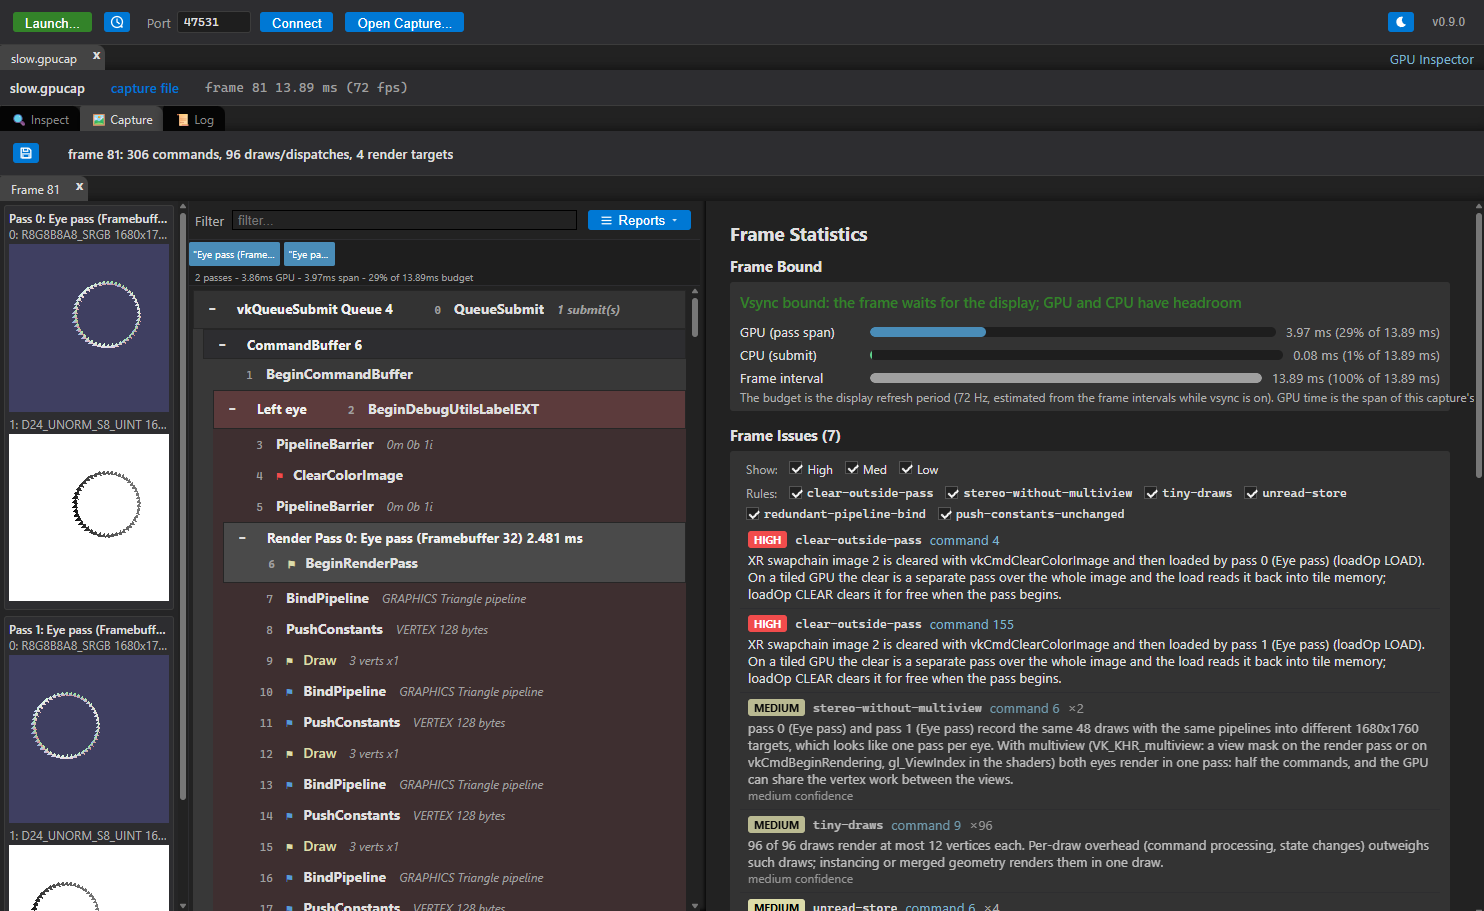
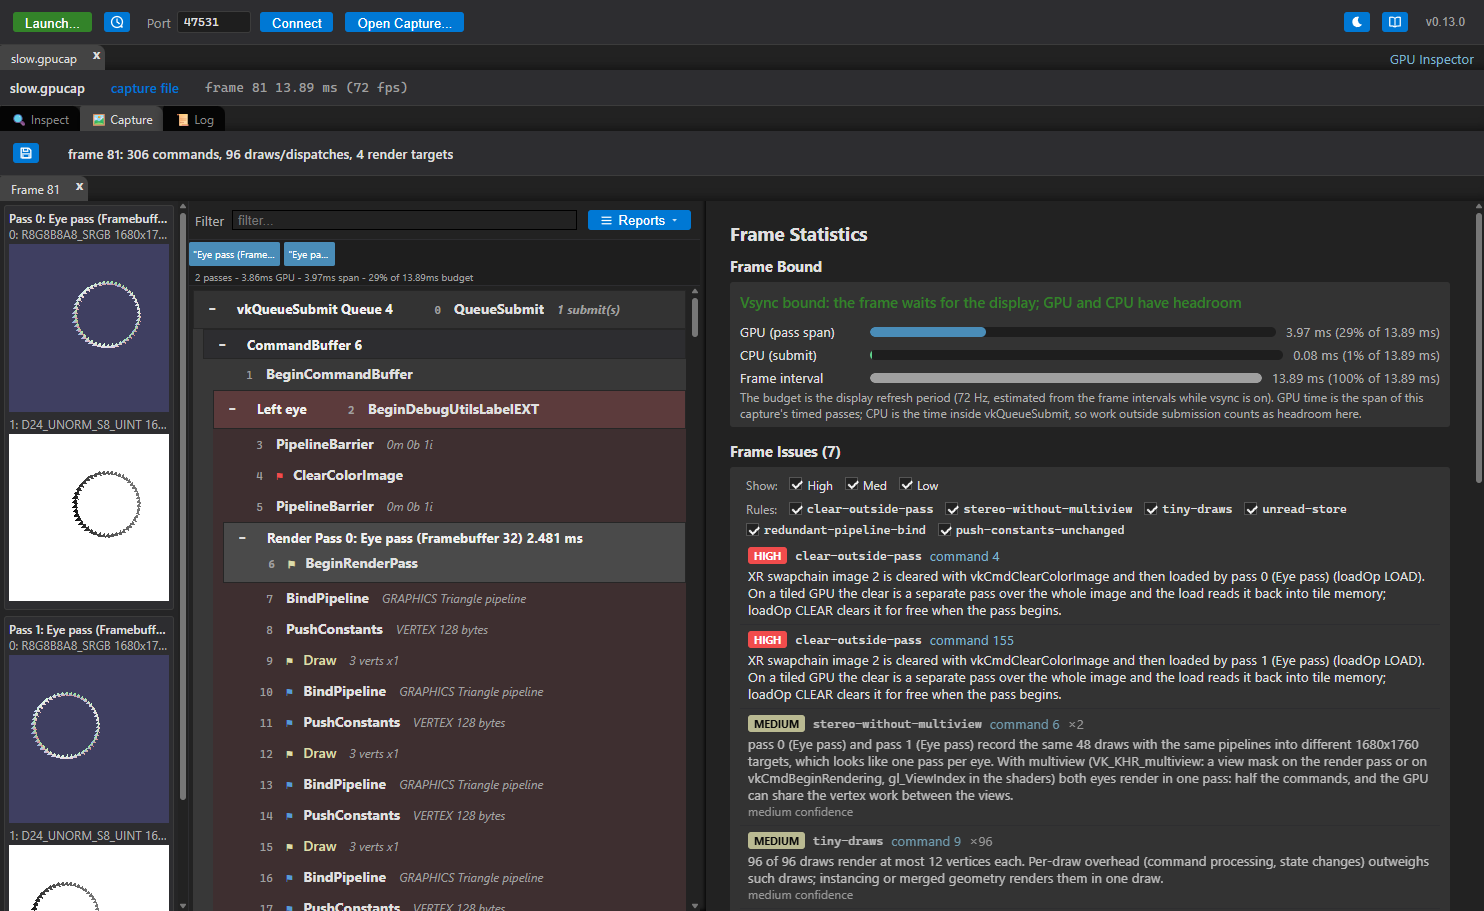
Document ray tracing and the new stats cards

diff --git a/src/app/src/renderer/capture_panel.ts b/src/app/src/renderer/capture_panel.ts
@@ -1462,7 +1462,20 @@ export class CaptureView implements CaptureHost {
   showView(name: string): void {
     if (name === "graph" || name === "render-graph") this._showRenderGraph();
     else if (name === "bottlenecks") this._showBottlenecks();
-    else if (name === "stats") this._showStats();
+    else if (name === "stats" || name.startsWith("stats:")) {
+      // Testing aid (--debug-view=stats[:<card>]): Frame Stats, scrolled to the card whose heading
+      // contains the text, since a screenshot otherwise only ever shows the top of the report.
+      this._showStats();
+      const heading = name.split(":")[1];
+      if (heading) {
+        const needle = heading.toLowerCase();
+        for (const h of this._infoPanel.element.querySelectorAll(".frame-stats-heading")) {
+          if (!(h.textContent ?? "").toLowerCase().includes(needle)) continue;
+          h.scrollIntoView({ block: "start" });
+          break;
+        }
+      }
+    }
     else if (name === "flame" || name === "flamegraph") void this._showFlameGraph();
     else if (name === "overdraw") void this.openOverdraw();
     else if (name.startsWith("mesh")) {

diff --git a/src/app/src/renderer/css/app.css b/src/app/src/renderer/css/app.css
@@ -391,7 +391,9 @@ button.btn-icon { padding: 3px 6px; line-height: 0; }
 .frame-stats-title { font-size: 14pt; font-weight: bold; margin-bottom: 10px; }
 .frame-stats-section { margin-bottom: 14px; }
 .frame-stats-heading { font-size: 11pt; font-weight: bold; margin-bottom: 6px; }
-.frame-stats-list { background: var(--bg-elevated); border-radius: var(--radius-sm); padding: 6px 10px; }
+/* The split the details pane sits in sets white-space: nowrap for its command rows, and it
+   inherits: without this every verdict and note here is one long line clipped at the pane's edge. */
+.frame-stats-list { background: var(--bg-elevated); border-radius: var(--radius-sm); padding: 6px 10px; white-space: normal; }
 .frame-stats-row { display: flex; justify-content: space-between; align-items: center; padding: 3px 0; font-size: 10pt; line-height: 1.4; }
 .frame-stats-label { color: var(--fg-primary); }
 .frame-stats-value { color: var(--fg-muted); font-variant-numeric: tabular-nums; }

diff --git a/src/app/src/renderer/capture_command_info.ts b/src/app/src/renderer/capture_command_info.ts
@@ -664,6 +664,9 @@ export class CommandInfoView {
         } else if (d.bufferView !== undefined) {
           const bv = db.getObject(refId(d.bufferView));
           resourceText = bv ? bv.name : "(destroyed buffer view)";
+        } else if (d.accelerationStructure !== undefined) {
+          const as = db.getObject(refId(d.accelerationStructure));
+          resourceText = as ? as.name : "(destroyed acceleration structure)";
         }
       }
       const isBuffer = !!d && d.buffer !== undefined;

diff --git a/src/app/src/shared/protocol.ts b/src/app/src/shared/protocol.ts
@@ -147,6 +147,8 @@ export interface CaptureDescriptor {
   sampler?: HandleRef | null;
   immutable?: boolean;
   bufferView?: HandleRef | null;
+  /** A ray tracing acceleration structure binding: the structure the rays are traced against. */
+  accelerationStructure?: HandleRef | null;
   /**
    * D3D12: a texture SRV/UAV names its resource and carries the view description (there is no view
    * object); `data` is the read-back's capture id as for `imageView`. A buffer view uses `buffer` /

diff --git a/src/app/src/renderer/inspect_panel.ts b/src/app/src/renderer/inspect_panel.ts
@@ -1178,6 +1178,7 @@ export class InspectPanel {
           if (d.immutable) new Span(li, { text: " (immutable)", class: "text-muted" });
         }
         if (d.bufferView !== undefined) link(d.bufferView, "(destroyed buffer view)");
+        if (d.accelerationStructure !== undefined) link(d.accelerationStructure, "(destroyed acceleration structure)");
         if (b.stages) new Span(li, { text: `  ${fmtFlags(b.stages)}`, class: "text-muted font-sm" });
       });
     }

diff --git a/tools/doc_screenshots.py b/tools/doc_screenshots.py
@@ -75,6 +75,16 @@ SHOTS = [
     Shot("bottlenecks", ["--launch={triangle}", "--debug-capture", "--debug-view=bottlenecks"],
          delay_ms=15000, launch=True),
     Shot("render-graph", ["--debug-open={capture}", "--debug-view=graph"], capture="unity.gpucap"),
+    # The Timeline card. Wants a real frame: the test application's GPU work is a tenth of a
+    # millisecond, which is sub-pixel against an axis wide enough to hold the CPU calls. It also
+    # needs a capture taken by a layer new enough to send the CPU timeline, which the older saved
+    # captures are not — unity-live.gpucap is a Unity player captured with the current one.
+    Shot("timeline", ["--debug-open={capture}", "--debug-view=stats:Timeline"], delay_ms=12000,
+         capture="unity-live.gpucap"),
+    # Frame Bound reporting the capture's own cost rather than a bottleneck, which wants a frame
+    # short enough that capturing it dominates — a player running far above its display's rate.
+    Shot("frame-bound-capture-cost", ["--debug-open={capture}", "--debug-view=stats:Frame Bound"],
+         delay_ms=12000, capture="unity-live.gpucap"),
     # Overdraw and pixel history replay the capture on this machine's GPU: slower. Both open on
     # the first colour target, and pixel history follows its centre pixel, so they want a frame
     # whose first target is small enough to see whole and has something at the middle of it —
@@ -103,6 +113,16 @@ SHOTS = [
     # A shader with its embedded source, in a captured draw.
     Shot("shader-source", ["--debug-open={capture}", "--debug-command=4", "--debug-expand=Fragment Shader"],
          delay_ms=12000, capture="xrstack.gpucap"),
+    # The acceleration structure viewer: a top level's instances and the scene they make. Wants a
+    # capture whose top level was built while watching, which rt.gpucap is (test/triangle
+    # --ray-tracing rebuilds both levels every frame).
+    # Named rather than taking the first structure: Instances is a top level's view, and the bottom
+    # level sorts first.
+    Shot("acceleration-structures", ["--debug-open={capture}", "--debug-select=VkAccelerationStructureKHR:TLAS"],
+         delay_ms=12000, capture="rt.gpucap"),
+    # The shader binding table of a trace (rt.gpucap, command 13 is the vkCmdTraceRaysKHR).
+    Shot("binding-table", ["--debug-open={capture}", "--debug-command=13", "--debug-expand=Shader Binding Table"],
+         delay_ms=12000, capture="rt.gpucap"),
     # The launch dialog, in its desktop and Android forms.
     Shot("launch-dialog", ["--debug-launch-dialog"], delay_ms=5000, crop="dialog"),
     Shot("launch-android", ["--debug-launch-dialog=android"], delay_ms=7000, crop="dialog"),

diff --git a/docs/INSPECT.md b/docs/INSPECT.md
@@ -48,6 +48,32 @@ now — **Refresh** reads it again from the application. Bindings that were neve
 Buffers are decoded with the types the shader declares, so a uniform block reads as its fields
 rather than as bytes.
 
+## Acceleration structures
+
+A ray tracing acceleration structure is opaque: the driver owns its layout and nothing reads one
+back. So the view of one is what it was *built from*, which the layer records as the build goes by.
+
+**Acceleration Structure** is that build — its type and mode, and each geometry with its primitive
+count, and for triangles the vertex format, stride and index type. A build names the memory it reads
+by device address rather than by handle, so the layer resolves those addresses back to the buffers
+holding them and the section names the buffer and the offset into it. A structure that was filled
+before the inspector attached says **Not built while the inspector was watching**, which is the
+usual state of a bottom level: most applications build theirs once, at load.
+
+**Instances** on a top level lists what it was built out of: for each instance the bottom level it
+names, where its transform puts it, its visibility mask, and its custom index, hit group offset and
+flags where they are not the default. An instance refers to its bottom level by device address, not
+by handle, which is why the layer records the address of every structure the application asks for
+one of — that map is what turns the reference back into an object you can click.
+
+![A top level acceleration structure in Inspect: what it was built from, and its instances drawn as a scene](images/acceleration-structures.png)
+
+The instances are also drawn, in the same preview the [mesh view](REPORTS.md#mesh-view) uses. An
+instance whose bottom level's geometry is in the capture is drawn with that geometry, placed by its
+transform; one whose is not is drawn as a box where it sits. A scene of boxes is the common case and
+is not a fault — it means those bottom levels were built before anything was capturing. Capturing a
+frame of an application that rebuilds its geometry each frame, or that streams it in, fills them in.
+
 ## Shaders
 
 A shader module or pipeline has a **Shader Code** section per stage with these views:

diff --git a/docs/CAPTURE.md b/docs/CAPTURE.md
@@ -54,6 +54,17 @@ Selecting a command fills the right side with everything that was true at that p
 - **Vertex and index buffers** — decoded into the attributes the pipeline declares, with their
   values.
 - **Push constants**.
+- **Shader Groups** (a ray tracing pipeline) — the groups the pipeline was made with, each naming
+  the shaders in it.
+- **Shader Binding Table** (a trace) — which shader group each record of the table runs. A trace
+  does not name the shaders it runs: it names four regions of memory whose records each begin with
+  an opaque handle the driver gave out for a group. The layer keeps those handles on the pipeline
+  and reads the table back from the addresses the trace points at, so each record is matched to its
+  group, and the bytes after the handle are reported as the application's own shader record data.
+  A record whose handle this pipeline never gave out is called out: a table filled from another
+  pipeline, or from handles fetched before the pipeline was rebuilt, sends rays to the wrong shader
+  or to none, and nothing else in a capture would show it. The structures a trace runs against are
+  in the [Inspect tab](INSPECT.md#acceleration-structures).
 - **Render targets** — the pass's attachments as they were at the end of the pass. Clicking one
   opens the image viewer, with zoom, mip and layer selection, and the value of the texel under the
   pointer. **Open in Tab** shows the target in the
@@ -64,6 +75,8 @@ Selecting a command fills the right side with everything that was true at that p
 - Commands recorded into a secondary command buffer say so, and link to it.
 
 ![A draw's fragment shader in a capture, showing the source the compiler embedded in the SPIR-V, with its cost and analysis](images/shader-source.png)
+
+![A trace in a capture: the pipeline's shader groups, and each shader binding table record matched to the group it runs](images/binding-table.png)
 
 Anything the frame's analysis flagged about a command is shown with it, linked to the full list in
 [Frame Stats](REPORTS.md#frame-stats).

diff --git a/docs/PROFILING.md b/docs/PROFILING.md
@@ -56,6 +56,19 @@ time its passes took.
 - Both well under the frame interval: something else sets the pace. Usually vsync, which is fine,
   or the application waiting on something that is not the GPU.
 
+There is a fourth answer: **the capture's own cost**. The frame interval is the one the application
+reaches *without* a capture, but the GPU time is the span of the *captured* passes — and capturing
+puts a timestamp, statistics and occlusion query around every pass and reads every render target
+back. When the passes span longer than the frame itself, the two numbers cannot both describe the
+same frame, and the card says so instead of naming a limiter. A Unity player running at 1475 fps
+whose captured passes span 9.2 ms is not GPU bound; it is a frame that got 13 times more expensive
+because it was being watched. Lighter frames distort proportionally more, so this is the usual
+verdict on a small or very fast application and a rare one on a real workload at its real frame
+rate. The per-pass figures are still worth reading against each other — it is the comparison with
+the frame budget that the capture has broken.
+
+![Frame Bound reporting the capture's own cost: a Unity frame of 0.74 ms whose captured passes span 4.81 ms, 648% of it](images/frame-bound-capture-cost.png)
+
 The meter in the session bar shows the same comparison live, without capturing.
 
 Those three numbers are aggregates, and two very different frames can produce the same ones: a frame
@@ -91,6 +104,8 @@ The **Timeline** card draws them instead: one lane per thread with the calls the
 GPU lane with the passes, on one axis. Both lanes sharing an axis needs the device clock related to
 the host clock, which the layer samples where the device has `VK_KHR_calibrated_timestamps`; without
 it the CPU lanes are still drawn and the GPU lane is left out rather than placed on a guessed origin.
+
+![The Timeline card: a thread lane and a GPU lane on one axis, with the verdict naming the gap before the first pass](images/timeline.png)
 
 What to read from it:
 

diff --git a/docs/METAL.md b/docs/METAL.md
@@ -63,6 +63,19 @@ picked up with **Connect** (or `npm start -- --connect=<port>`):
   listed in the Inspect tab.
 - **Bottleneck counters** — Metal's counter sets measure overdraw, fragments per primitive and
   depth rejection per pass. See [Finding GPU bottlenecks](PROFILING.md).
+- **Where the CPU went, and the Timeline** — the calls the capture library times, so a Metal frame
+  can be called CPU- or GPU-bound and the threads and the passes can be drawn on one axis. Metal's
+  categories are the shortest of the three backends: `commit` is the submit, `waitUntilCompleted`
+  and `waitUntilScheduled` are waiting for the GPU, and `CAMetalLayer`'s `nextDrawable` is waiting
+  for the display, which is where a display-paced Metal frame spends its time. There is deliberately
+  no present span — `presentDrawable:` only schedules and returns at once, so timing it would record
+  a call that never waits. `sampleTimestamps:gpuTimestamp:` relates the two clocks, which is what
+  puts the passes on the same axis as the calls that committed them.
+- **Memory over time** — the device's own `currentAllocatedSize` against its
+  `recommendedMaxWorkingSetSize`, sampled each frame. Metal has no heap table to break down and no
+  separate residency figure, so the Memory Use section shows that series alone rather than the
+  per-heap breakdown the other backends have. See
+  [Memory](PROFILING.md#memory-how-much-from-which-heap-and-which-way-it-is-going).
 
 ## Metal-only capture options
 
@@ -78,7 +91,6 @@ following the pixel, so it needs the application to still be running.
 
 ## What is not there yet
 
-- No pass timings: the profile view still says *waiting for GPU timestamps*.
 - Depth attachments and sampled images are not read back.
 - Only the pixel formats `src/metal/src/formats.h` maps are decoded — no ASTC, ETC or PVRTC.
 - No creation stack traces.

diff --git a/docs/REPORTS.md b/docs/REPORTS.md
@@ -15,11 +15,22 @@ For the order to use them in when a frame is slow, see
 
 ## Frame Stats
 
-Two parts:
+In order down the view:
 
 - **Frame Bound** — the frame's GPU time next to the CPU submit time and the frame interval, with
   a verdict on which of them the frame is waiting for. This is the first thing to read: it says
-  whether the GPU is the problem at all.
+  whether the GPU is the problem at all. One verdict is not a bottleneck: when the captured passes
+  span *longer than the frame the application reaches without a capture*, the card reports the
+  capture's own cost instead of naming a limiter. Capturing puts a timestamp, statistics and
+  occlusion query around every pass and reads every render target back, so the captured frame is
+  the more expensive one — and a frame cannot be shorter than the GPU work it waits for, so the two
+  bars are not on the same footing and no honest verdict can be drawn from them. Take the GPU
+  figures from it as relative costs between passes, not as the frame's budget.
+- **Where the CPU went** — the frame's CPU time split into submitting, waiting for the GPU,
+  waiting for the display, and the application's own work.
+- **Timeline** — the threads and the GPU drawn as tracks on one axis, which is the only view here
+  that can show the GPU *idle*. See [when, not how much](PROFILING.md#step-1b-when-not-how-much).
+- **Pass Timings** — each pass's GPU time, with the total and the span they cover.
 - **Frame Statistics** — counts for the frame: commands by kind, draws (indexed, indirect, mesh),
   dispatches, submits and command buffers, passes and attachments, pipelines and stages bound,
   descriptor sets and what they bound, memory traffic and geometry.

diff --git a/CHANGELOG.md b/CHANGELOG.md
@@ -102,6 +102,19 @@
   is left out rather than placed on a guessed origin.
 
 ### Fixed
+- A bound acceleration structure read as **(not written)** on a trace, and named nothing in a
+  descriptor set's contents (`renderer/capture_command_info.ts`, `renderer/inspect_panel.ts`). Both
+  views walk the kinds a descriptor can hold — buffer, image view, sampler, buffer view — and
+  neither had learned the kind a ray tracing set is mostly made of, so the one binding that says
+  what the rays are traced against looked like a binding nobody had filled in. The capture recorded
+  it correctly throughout; only the reading of it was wrong. Found in a documentation screenshot.
+- Every verdict in Frame Stats was cut off at the details pane's edge (`renderer/css/app.css`). The
+  split the pane sits in sets `white-space: nowrap` so its command rows do not wrap, and that
+  inherits: the Frame Bound, **Where the CPU went** and **Timeline** cards each write a sentence or
+  two of explanation, and all of it was laid out as one line and clipped — the Frame Bound verdict
+  measured 3519 pixels in a 700 pixel pane, so four fifths of what the report had to say was
+  unreadable. The cards reset it the way the Frame Issues rows already did. Found while taking the
+  documentation screenshots, which is what the screenshots are for.
 - Frame Bound could name a bottleneck from two numbers that cannot both describe the same frame
   (`renderer/capture_statistics.ts`). The GPU figure is the span of the *captured* passes and the
   budget is the frame interval the application reaches *without* a capture — and capturing adds a
